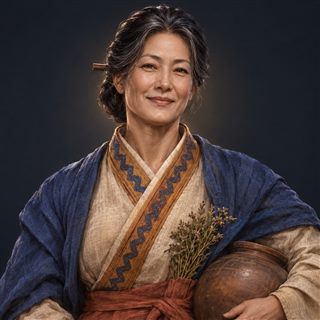
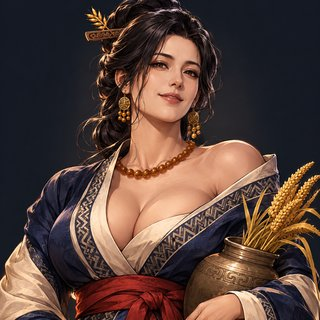
초상 콘셉트 바꿈: w-99-garak-yucheongan — 형이 구움 (굽기 꾸러미) (형 11-08)
Claude-Session: https://claude.ai/code/session_01TRiuNAG8xSjdmjCFpc8Rd5

diff --git a/src/realm/data/art.ts b/src/realm/data/art.ts
@@ -574,7 +574,7 @@ export const GEN_ANIM: Readonly<Partial<Record<string, { ar: number; body: numbe
   maryeo: { ar: 151 / 160, body: 0.906 }, // 11-08 초상대로 다시 (형: 「투구 쓰고 원본과 다르다」 · 제미나이 걷기 4×2 + 동작 4×2 → 20컷 · assets_src/realm/gemini/generals2) · 11-08 처음 · 백제 마려 · 볏단 멘 농부·괭이
 }
 /** 제 그림이 있는 장수 (장수 id → gen-<이름>.png 의 이름) */
-export const GEN_OWN: Readonly<Record<string, string>> = { 'gwanna-2': 'soenun', 'haseulla-ruler': 'dangung', 'goguryeo-2': 'hwalmi', 'maek-1': 'beombal', 'wander-04': 'sori', 'dongokjeo-2': 'sogeumbi', 'golbeol-2': 'budeul', 'michuhol-2': 'gaennae', 'jm-jumong': 'jumong', 'mh-onjo': 'onjo', 'tut-onjo': 'onjo', 'mh-soseono': 'soseono', 'sr-aryeong': 'aryeong', 'jm-haedal': 'haedal', 'buyeo-1': 'haedal', 'jm-songbi': 'songbi', 'biryuna-ruler': 'songbi', 'sr-hyeokgeose': 'hyeokgeose', 'jm-oi': 'oi', 'jm-mari': 'mari', 'jm-daeso': 'daeso', 'mh-eureum': 'eureum', 'mh-ogan': 'ogan', 'tut-ogan': 'ogan', 'goguryeo-ruler': 'damul', 'jm-songyang': 'songyang', chief: 'maenun', 'jm-hyeopbo': 'hyeopbo', 'tut-malgalgi': 'malgalgi', 'sabeol-1': 'malgalgi', 'tut-haebi': 'haebi', 'guya-3': 'soebi', 'anya-1': 'ara', 'gj-dana': 'ara', 'gj-heo': 'heo', 'gammun-2': 'gamsil', 'jomun-ruler': 'irang', 'goryong-ruler': 'gureum', 'tut-biryu': 'biryu', 'buyeo-ruler': 'geumha', 'guya-1': 'geota', 'guya-ruler': 'soebo', 'maga-ruler': 'dalli', 'bullae-ruler': 'bakdal', 'saro-2': 'noeul', 'wander-02': 'maehwa', 'wander-07': 'gaon', 'jeoga-1': 'eomni', 'guga-ruler': 'nuri', 'michuhol-ruler': 'bira', 'jomun-2': 'odi', 'us-ruler': 'haesol', 'wander-22': 'sinneoul', 'byeokjin-ruler': 'byeol', 'wander-18': 'goeun', 'gosaburi-ruler': 'baram', 'golbeol-ruler': 'beom', 'balla-1': 'dokmudeom', 'wander-16': 'areum', 'tamna-ruler': 'halla', 'samul-1': 'sagong', 'ungcheon-1': 'gom', 'wansan-1': 'wan', 'dm-mir': 'mir', 'dm-buyeo-2': 'darae', 'sr-yangsan-1': 'mulsae', 'sr-danbi': 'danbi', 'sr-jinji-1': 'beomi', 'jm-okjeo-1': 'mulbeom', 'mh-mahan-2': 'mdallae', 'gj-singwigan': 'singwigan', 'gj-sincheongan': 'sincheongan', 'gj-yucheongan': 'yucheongan', 'sr-goya-1': 'sdallae', 'gj-tahae-1': 'tneoul', 'jm-haengin-1': 'hneoul', 'jm-haengin-ruler': 'gomok', 'jm-okjeo-ruler': 'duman', 'mh-jinwang': 'jinha', 'mh-mahan-1': 'keundol', 'mh-mahan-3': 'geumbawi', 'sr-hogong': 'hogong', 'sr-alpyeong': 'alpyeong', 'sr-sobeol': 'sobeol', 'sr-jibaekho': 'jibaekho', 'sr-guryema': 'guryema', 'sr-jita': 'jita', 'sr-hojin': 'hojin', 'sr-wae-ruler': 'waechief', 'gj-suro': 'suro', 'gj-musoe': 'musoe', 'gj-adogan': 'adogan', 'gj-yeodogan': 'yeodogan', 'gj-pidogan': 'pidogan', 'gj-odogan': 'odogan', 'gj-yusugan': 'yusugan', 'gj-ocheongan': 'ocheongan', 'gj-tahae': 'tahae', 'dm-daemusin': 'daemusin', 'dm-gwaeyu': 'gwaeyu', 'dm-maro': 'maro', 'dm-daeso': 'olddaeso', 'dm-buyeo-1': 'horselord', 'tut-maryeo': 'maryeo' }
+export const GEN_OWN: Readonly<Record<string, string>> = { 'gwanna-2': 'soenun', 'haseulla-ruler': 'dangung', 'goguryeo-2': 'hwalmi', 'maek-1': 'beombal', 'wander-04': 'sori', 'dongokjeo-2': 'sogeumbi', 'golbeol-2': 'budeul', 'michuhol-2': 'gaennae', 'jm-jumong': 'jumong', 'mh-onjo': 'onjo', 'tut-onjo': 'onjo', 'mh-soseono': 'soseono', 'sr-aryeong': 'aryeong', 'jm-haedal': 'haedal', 'buyeo-1': 'haedal', 'jm-songbi': 'songbi', 'biryuna-ruler': 'songbi', 'sr-hyeokgeose': 'hyeokgeose', 'jm-oi': 'oi', 'jm-mari': 'mari', 'jm-daeso': 'daeso', 'mh-eureum': 'eureum', 'mh-ogan': 'ogan', 'tut-ogan': 'ogan', 'goguryeo-ruler': 'damul', 'jm-songyang': 'songyang', chief: 'maenun', 'jm-hyeopbo': 'hyeopbo', 'tut-malgalgi': 'malgalgi', 'sabeol-1': 'malgalgi', 'tut-haebi': 'haebi', 'guya-3': 'soebi', 'anya-1': 'ara', 'gj-dana': 'ara', 'gj-heo': 'heo', 'gammun-2': 'gamsil', 'jomun-ruler': 'irang', 'goryong-ruler': 'gureum', 'tut-biryu': 'biryu', 'buyeo-ruler': 'geumha', 'guya-1': 'geota', 'guya-ruler': 'soebo', 'maga-ruler': 'dalli', 'bullae-ruler': 'bakdal', 'saro-2': 'noeul', 'wander-02': 'maehwa', 'wander-07': 'gaon', 'jeoga-1': 'eomni', 'guga-ruler': 'nuri', 'michuhol-ruler': 'bira', 'jomun-2': 'odi', 'us-ruler': 'haesol', 'wander-22': 'sinneoul', 'byeokjin-ruler': 'byeol', 'wander-18': 'goeun', 'gosaburi-ruler': 'baram', 'golbeol-ruler': 'beom', 'balla-1': 'dokmudeom', 'wander-16': 'areum', 'tamna-ruler': 'halla', 'samul-1': 'sagong', 'ungcheon-1': 'gom', 'wansan-1': 'wan', 'dm-mir': 'mir', 'dm-buyeo-2': 'darae', 'sr-yangsan-1': 'mulsae', 'sr-danbi': 'danbi', 'sr-jinji-1': 'beomi', 'jm-okjeo-1': 'mulbeom', 'mh-mahan-2': 'mdallae', 'gj-singwigan': 'singwigan', 'gj-sincheongan': 'sincheongan', 'gj-yucheongan': 'w-99-garak-yucheongan', 'sr-goya-1': 'sdallae', 'gj-tahae-1': 'tneoul', 'jm-haengin-1': 'hneoul', 'jm-haengin-ruler': 'gomok', 'jm-okjeo-ruler': 'duman', 'mh-jinwang': 'jinha', 'mh-mahan-1': 'keundol', 'mh-mahan-3': 'geumbawi', 'sr-hogong': 'hogong', 'sr-alpyeong': 'alpyeong', 'sr-sobeol': 'sobeol', 'sr-jibaekho': 'jibaekho', 'sr-guryema': 'guryema', 'sr-jita': 'jita', 'sr-hojin': 'hojin', 'sr-wae-ruler': 'waechief', 'gj-suro': 'suro', 'gj-musoe': 'musoe', 'gj-adogan': 'adogan', 'gj-yeodogan': 'yeodogan', 'gj-pidogan': 'pidogan', 'gj-odogan': 'odogan', 'gj-yusugan': 'yusugan', 'gj-ocheongan': 'ocheongan', 'gj-tahae': 'tahae', 'dm-daemusin': 'daemusin', 'dm-gwaeyu': 'gwaeyu', 'dm-maro': 'maro', 'dm-daeso': 'olddaeso', 'dm-buyeo-1': 'horselord', 'tut-maryeo': 'maryeo' }
 type GenLook = { readonly id?: string; readonly look: 'g' | 'w'; readonly traits: readonly string[]; readonly mu: number; readonly tong: number; readonly ryak: number; readonly chi: number; readonly deok: number }
 /**
  * 장수 → 싸움터에 설 그림 (순수). 제 그림이 있으면 그것 · 명궁이면 활 · 통솔이 가장 높고 비기가 날 만큼(tacArtMinStat) 높은 남자는 말 탄 장수 ·
